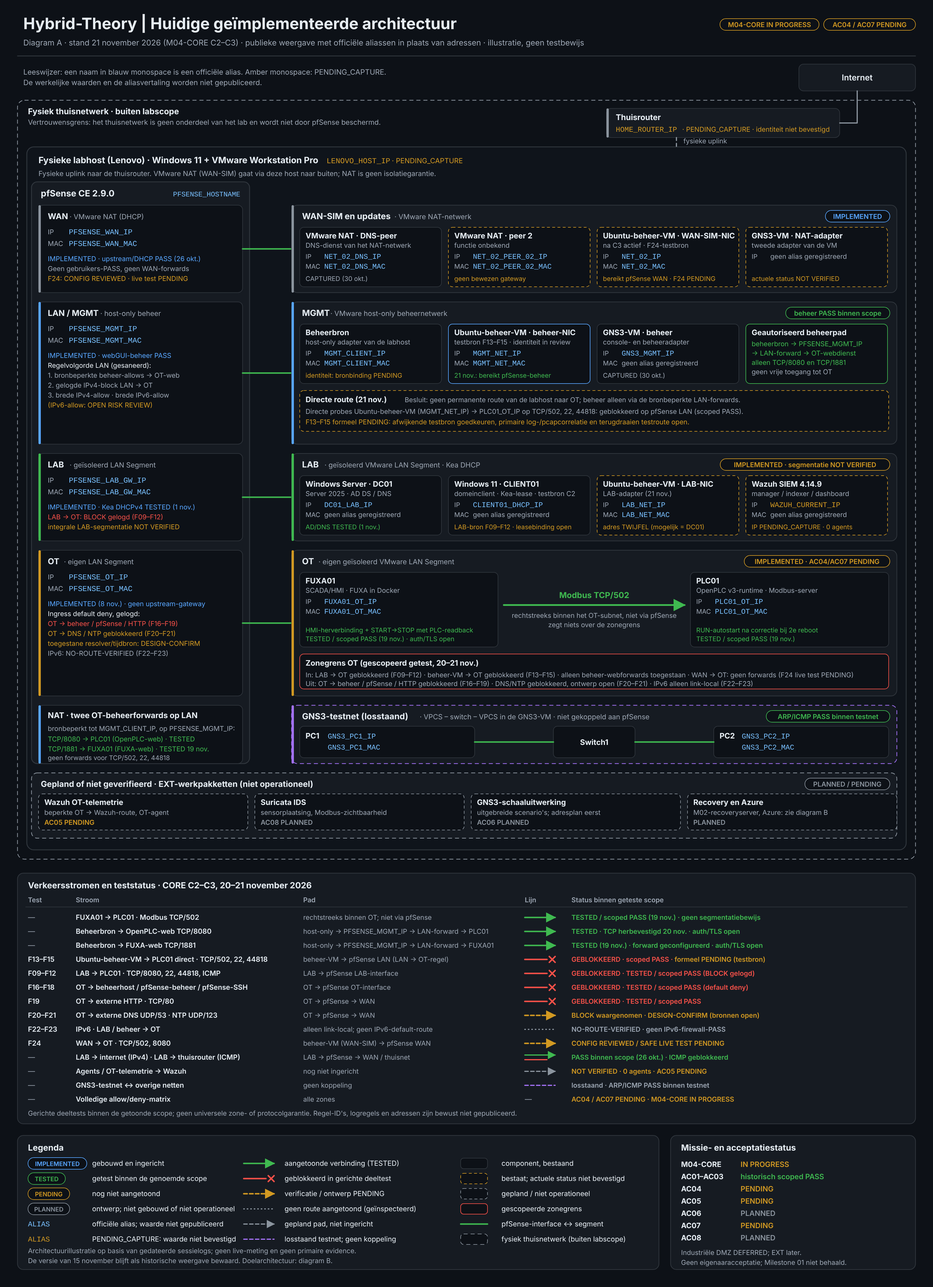
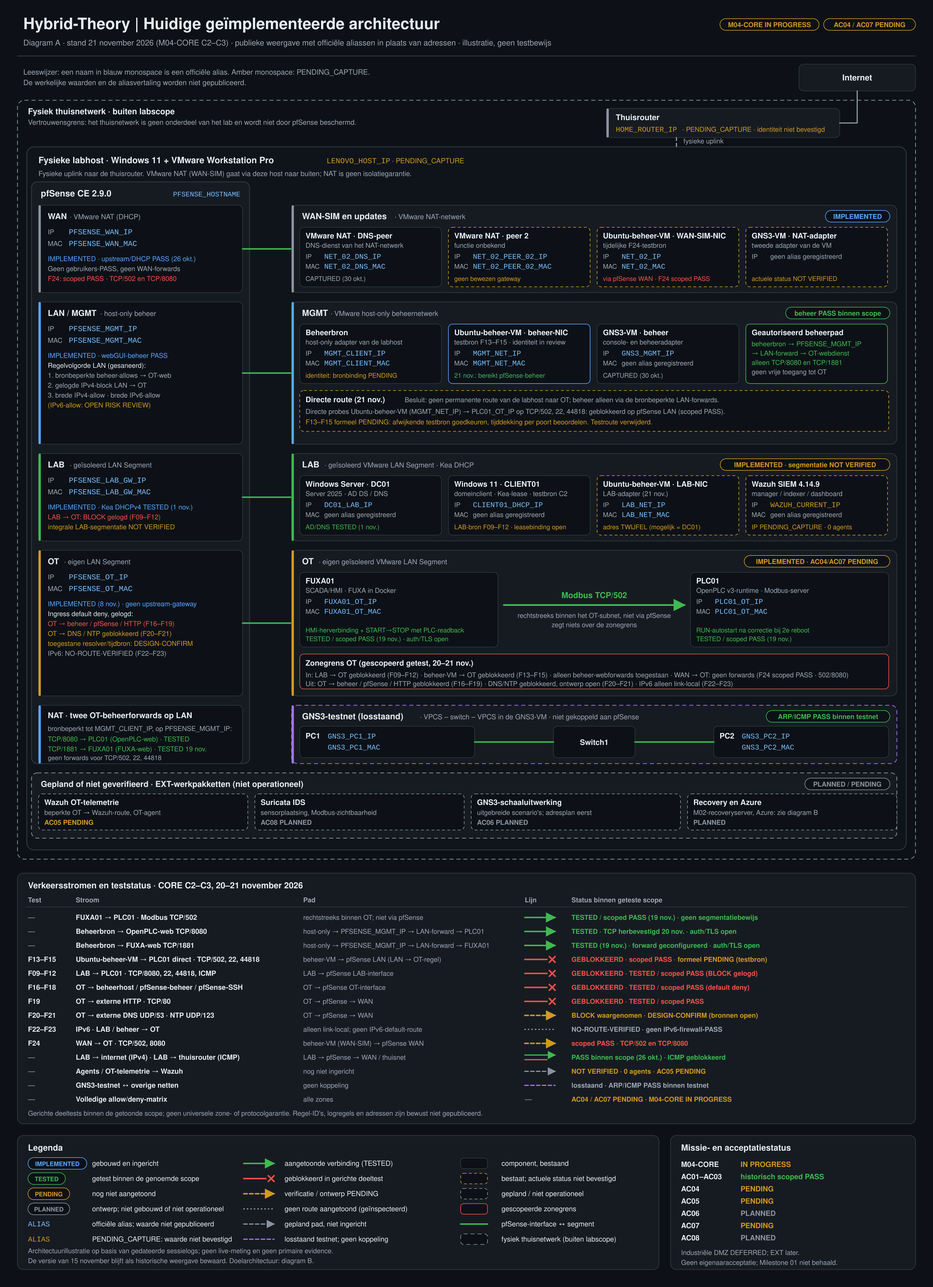
M04: verwerk de gesaneerde WAN-eindmeting en resterende CORE-gates

diff --git a/architectuur/README.md b/architectuur/README.md
@@ -40,7 +40,7 @@ Diagram A bestaat uit drie delen, zodat de tekst op schermbreedte leesbaar blijf
 - **FUXA01 praat rechtstreeks met PLC01** via Modbus TCP/502. Beide staan in hetzelfde OT-subnet, dus dit verkeer loopt niet via de pfSense-router en zegt niets over de grens naar andere zones.
 - **Fysieke grens:** de labhost staat in het thuisnetwerk, dat buiten de labscope valt. WAN-SIM gaat via VMware NAT en de fysieke uplink naar buiten; NAT is geen isolatiegarantie.
 - **Beheerpad:** de aangewezen beheerbron bereikt via het host-only segment `PFSENSE_MGMT_IP`. Twee bronbeperkte LAN-forwards geven alleen toegang tot de OpenPLC-webdienst (TCP/8080) en de FUXA-webdienst (TCP/1881); dat is geen vrije toegang tot OT. Een directe route van de beheerhost naar `PLC01_OT_IP` koos de fysieke uplink; een geautoriseerd direct pad (F13–F15) is een ontwerpbesluit en **PENDING / DESIGN-CONFIRM**.
-- **Zonegrens OT (gescopeerd, 20 november):** LAB→PLC01 (F09–F12) en OT→beheer, firewall en externe HTTP (F16–F19) zijn met gelogde blokkades **TESTED / scoped PASS**. DNS/NTP vanuit OT is geblokkeerd waargenomen, maar het ontwerp voor toegestane bronnen is **DESIGN-CONFIRM** (F20/F21). IPv6 is **NO-ROUTE-VERIFIED** binnen de geïnspecteerde topologie (F22/F23), geen IPv6-firewall-PASS. WAN→OT is **CONFIG REVIEWED / SAFE LIVE TEST PENDING** (F24).
+- **Zonegrens OT (gescopeerd, 20 november):** LAB→PLC01 (F09–F12) en OT→beheer, firewall en externe HTTP (F16–F19) zijn met gelogde blokkades **TESTED / scoped PASS**. DNS/NTP vanuit OT is geblokkeerd waargenomen, maar het ontwerp voor toegestane bronnen is **DESIGN-CONFIRM** (F20/F21). IPv6 is **NO-ROUTE-VERIFIED** binnen de geïnspecteerde topologie (F22/F23), geen IPv6-firewall-PASS. Op 21 november kreeg F24 voor TCP/502 en TCP/8080 **scoped PASS**.
 - **Gepland, niet operationeel:** Wazuh OT-telemetrie (AC05 **PENDING**), Suricata IDS (AC08 **PLANNED**) en GNS3-schaaluitwerking (AC06 **PLANNED**).
 - **Het GNS3-testnet staat los** van pfSense en het thuisnetwerk.
 - **M04-CORE is IN PROGRESS:** AC01–AC03 historisch **scoped PASS**; AC04 (integrale segmentatie), AC05 en AC07 (volledige allow/deny-matrix) **PENDING**; AC06 en AC08 **PLANNED**.
@@ -59,9 +59,9 @@ De verkeersstromen met hun teststatus staan in [Netwerkontwerp §1.1](NETWERKONT
 | FUXA01 (SCADA/HMI) | OT | `FUXA01_OT_IP` | `FUXA01_OT_MAC` | **IMPLEMENTED**; HMI en Modbus-verbinding TESTED (15 nov.); START→STOP met PLC-readback TESTED / scoped PASS (19 nov.) |
 | Windows Server 2025 (DC01) | LAB | `DC01_LAB_IP` | geen alias | AD DS/DNS TESTED (1 nov.); adres **TWIJFEL** |
 | Windows 11 (CLIENT01) | LAB | `CLIENT01_DHCP_IP` | geen alias | DHCP-lease; domeinclient TESTED (1 nov.); LAB-testbron F09–F12 (20 nov.), leasebinding open |
-| Ubuntu(-beheer-VM), LAB-interface | LAB | `LAB_NET_IP` (IPv6: `LAB_NET_IPV6_LL`) | `LAB_NET_MAC` (PENDING_CAPTURE) | adres **TWIJFEL** |
+| Ubuntu(-beheer-VM), LAB-interface | LAB | `LAB_NET_IP` (IPv6: `LAB_NET_IPV6_LL`) | `LAB_NET_MAC` (PENDING_CAPTURE) | bronalias bij de LAN-proef waargenomen, identiteits- en overlapreview open |
 | Ubuntu(-beheer-VM), beheerinterface | MGMT | `MGMT_NET_IP` (IPv6: `MGMT_NET_IPV6_LL`) | `MGMT_NET_MAC` (PENDING_CAPTURE) | Cockpit PASS (25 okt.); 21 nov. bereikt pfSense-beheer, testbron F13–F15; identiteitsreview **open** |
-| Ubuntu(-beheer-VM), WAN-SIM-interface | WAN-SIM | `NET_02_IP` (IPv6: `NET_02_IPV6_LL`) | `NET_02_MAC` (PENDING_CAPTURE) | tijdens de managementtests los; daarna tijdelijke F24-testbron die pfSense WAN bereikt; actuele waarde **PENDING_CAPTURE** |
+| Ubuntu(-beheer-VM), WAN-SIM-interface | WAN-SIM | `NET_02_IP` (IPv6: `NET_02_IPV6_LL`) | `NET_02_MAC` (PENDING_CAPTURE) | tijdens de managementtests los; daarna tijdelijke F24-testbron die pfSense WAN bereikt; bronalias tijdens de proef bevestigd, adaptereindstand open |
 | Wazuh SIEM | LAB | `WAZUH_CURRENT_IP` (PENDING_CAPTURE) | geen alias | dashboard TESTED (3–4 nov.); 0 agents |
 | GNS3-VM, beheer | MGMT | `GNS3_MGMT_IP` | geen alias | beheer bereikbaar |
 | GNS3 VPCS PC1 / PC2 | GNS3-testnet (losstaand) | `GNS3_PC1_IP` / `GNS3_PC2_IP` | `GNS3_PC1_MAC` / `GNS3_PC2_MAC` | ARP/ICMP PASS binnen het testnet |
@@ -147,6 +147,6 @@ De versies van 15 november, [diagram A](diagrammen/HT-ARCHITECTUUR-A-HUIDIG-PUBL
 
 ## Statusdelta 21 november 2026 — beheernetwerk en OT
 
-Volgens de eigenaarsessie blokkeerde pfSense drie directe management→PLC-pogingen op TCP/502, TCP/22 en TCP/44818. Dit is **TESTED / scoped PASS voor de werkelijk gebruikte virtuele beheerbron**, niet de formele acceptatie van F13–F15 of AC04/AC07. Testbronacceptatie, capture-/rollbackbewijs, WAN→OT en de overige CORE-controles zijn nog open.
+Volgens de eigenaarsessie blokkeerde pfSense drie directe management→PLC-pogingen op TCP/502, TCP/22 en TCP/44818. Dit is **TESTED / scoped PASS voor de werkelijk gebruikte virtuele beheerbron**, niet de formele acceptatie van F13–F15 of AC04/AC07. De LAN-route is verwijderd. Formele bronacceptatie en tijdreview per poort staan open. **F24 · scoped PASS voor TCP/502 en TCP/8080.** pfSense ontving zes SYN-pakketten op de gesimuleerde WAN-grens, drie per doelpoort. De IPv4-default-deny blokkeerde ze alle zes. De gelijktijdige, op bron, doel en beide poorten gefilterde OT-capture bevat nul pakketten.
 
 De afbeeldingen op deze pagina tonen de **topologie en teststand van 21 november**, inclusief de C3-resultaten uit het [gesaneerde sessielog van 21 november](../projectlogboeken/2026-11-21-m04-core-management-segmentatie.md). Geen directe permanente fysieke-host→OT-route of industriële DMZ in deze fase.

diff --git a/architectuur/NETWERKONTWERP.md b/architectuur/NETWERKONTWERP.md
@@ -1,6 +1,6 @@
 # Netwerkontwerp en beveiligingsgrenzen | Hybrid-Theory
 
-**Bijgewerkt:** 21 november 2026 (managementtests en F24-testvoorbereiding van 21 november; diagram A gedateerd 21 november, versie van 20 november als momentopname bewaard; 19-november-regressie, CORE C2-deeltests en statusnotities van diagram B: 20 november) · **Classificatie:** gesaneerde architectuurpublicatie · **Herkomst:** private architectuur en HT-C-010.
+**Bijgewerkt:** 21 november 2026 (managementtests en F24-eindmeting van 21 november; diagram A gedateerd 21 november, versie van 20 november als momentopname bewaard; 19-november-regressie, CORE C2-deeltests en statusnotities van diagram B: 20 november) · **Classificatie:** gesaneerde architectuurpublicatie · **Herkomst:** private architectuur en HT-C-010.
 
 Dit document heeft twee lagen die niet door elkaar mogen lopen: de **geobserveerde situatie** (§1) en de **doelarchitectuur HT-C-010** (§2–§3). Adressen staan als officiële alias; de [componenttabel met alle aliassen](README.md#11-componenten-zones-en-officiële-aliassen) staat in Architecture.
 
@@ -38,7 +38,7 @@ Deze gegevens komen uit gedateerde sessielogs en zijn **geen nieuwe live-meting*
 | 6 | OT → andere zones en internet | Via de pfSense-OT-interface | Gerichte OT→LAB ICMP en OT→extern ICMP/TCP 443 (19 nov.) en OT→beheerhost, pfSense-beheer, pfSense-SSH en externe HTTP (F16–F19, 20 nov.) zijn met pfSense-BLOCK-events gecorreleerd (**TESTED / scoped PASS**); alternatieve paden/protocollen en integrale AC04 **PENDING** |
 | 6a | OT → externe DNS (UDP/53) en NTP (UDP/123) (F20/F21) | Via de pfSense-OT-interface | Geblokkeerd waargenomen; goedgekeurde resolver en tijdbron **DESIGN-CONFIRM** |
 | 6b | IPv6 LAB/beheer → OT (F22/F23) | Alleen link-local op de onderzochte LAB-/OT-hosts, geen IPv6-default-route | **NO-ROUTE-VERIFIED** binnen de geïnspecteerde topologie; geen IPv6-firewall-PASS; brede LAN IPv6-allow onder review |
-| 6c | WAN → OT (F24) | WAN-SIM → pfSense WAN; als tijdelijke testbron is na de managementtests de WAN-SIM-adapter van de beheer-VM (`NET_02_IP`) actief gemaakt, die pfSense WAN bereikt | Geen gebruikers-PASS en geen WAN-forwards in de bekeken configuratie: **CONFIG REVIEWED / SAFE LIVE TEST PENDING**; geen PASS zonder gelogde blokkade en bewijs |
+| 6c | WAN → OT (F24) | Tijdelijke WAN-bron → pfSense WAN → PLC, TCP/502 en TCP/8080 | **Scoped PASS**. Zes SYN op WAN, zes gelogde blokkades en nul treffers op OT. |
 | 7 | Agents en OT-telemetrie → Wazuh | Nog niet ingericht | **NOT VERIFIED**; 0 agents; AC05 **PENDING** |
 | 8 | GNS3-testnet ↔ overige netten | Geen koppeling | Losstaand; ARP/ICMP **PASS** binnen het testnet |
 
@@ -94,10 +94,10 @@ De C2-sessie bevestigde gerichte LAB→PLC- en OT→beheer/firewall/extern-blokk
 
 ## Actualisatie 21 november 2026 — beheerzone/OT-ontwerp
 
-In de bestaande topologie is vanuit een afzonderlijke virtuele managementbron driemaal een directe verbinding naar de PLC geprobeerd: Modbus TCP/502, SSH TCP/22 en EtherNet/IP TCP/44818. Volgens de eigenaarsessie blokkeerde pfSense deze drie verbindingen op de beheer-naar-OT-grens. **TESTED / scoped PASS voor de geteste managementbron.** De canonieke F13–F15-matrix noemt een andere bron; expliciete bronacceptatie, packetcapture-/log-review en rollbackbewijs zijn nog **PENDING**. Integrale AC04/AC07: **PENDING**.
+In de bestaande topologie is vanuit een afzonderlijke virtuele managementbron driemaal een directe verbinding naar de PLC geprobeerd: Modbus TCP/502, SSH TCP/22 en EtherNet/IP TCP/44818. Volgens de eigenaarsessie blokkeerde pfSense deze drie verbindingen op de beheer-naar-OT-grens. **TESTED / scoped PASS voor de geteste managementbron.** De canonieke F13–F15-matrix noemt een andere bron; expliciete bronacceptatie, packetcapture-/log-review zijn nog **PENDING**. De tijdelijke LAN-route is verwijderd. Integrale AC04/AC07: **PENDING**.
 
 De fysieke VMware-host krijgt geen permanente directe OT-route. Het beperkte webbeheer via de bestaande firewallportforwards blijft tijdelijk gehandhaafd. Uitbreiding van het virtuele beheerwerkstation en de industriële DMZ is uitgesteld tot na M04-CORE. De in het eerdere document opgenomen stand van 20 november blijft historische context.
 
-**F24-testvoorbereiding (21 november, na de managementtests):** de WAN-SIM-adapter van de beheer-VM stond tijdens de managementtests los en is daarna als **tijdelijke testbron** actief gemaakt; hij bereikt pfSense WAN rechtstreeks. Dat is geen ontwerpkeuze en geen WAN→OT- of beheerverbinding. F24 blijft **CONFIG REVIEWED / SAFE LIVE TEST PENDING**.
+**F24 · scoped PASS voor TCP/502 en TCP/8080.** pfSense ontving zes SYN-pakketten op de gesimuleerde WAN-grens, drie per doelpoort. De IPv4-default-deny blokkeerde ze alle zes. De gelijktijdige, op bron, doel en beide poorten gefilterde OT-capture bevat nul pakketten. De tijdelijke WAN-hostroute is verwijderd en Host-only-beheer is hersteld. De eindstand van de adapters moet nog worden vastgelegd. [Daglog](../projectlogboeken/2026-11-21-m04-core-management-segmentatie.md)
 
 [Gesaneerd testlog 21 november](../projectlogboeken/2026-11-21-m04-core-management-segmentatie.md) · [M04 Issue #45](https://github.com/SamAsgar/Hybrid-Theory-Public/issues/45).

diff --git a/Portfolio/M04-Network-Citadel/M04-GAPS.md b/Portfolio/M04-Network-Citadel/M04-GAPS.md
@@ -4,12 +4,12 @@
 **Status:** technische beeldanalyse; geen formele audit-PASS.
 
 ## M04 Network Citadel
-1. **Topologiegrens:** oude VMnet8-/LAB-tests en latere LAN-segment-/OT-configuratie bewust gescheiden. Voor AC01/AC02/AC03 kunnen eerdere succesvolle tests bestaan, maar deze screenshots leveren niet automatisch regressie-PASS na de migratie.
+1. **Topologiegrens:** oude NAT-/LAB-tests en latere LAN-segment-/OT-configuratie bewust gescheiden. Voor AC01/AC02/AC03 kunnen eerdere succesvolle tests bestaan, maar deze screenshots leveren niet automatisch regressie-PASS na de migratie.
 2. **AC04 OT-interface:** er is een nulmeting zonder OT-firewallregels. Latere regellijsten en adapterinstellingen zijn zichtbaar, maar een volledige gevalideerde netwerkflow naar PLC/FUXA over het bedoelde pad is niet uit deze selectie alleen vast te stellen.
 3. **AC07 allow/deny:** aparte matrix nodig per bron, bestemming, poort, resultaat, timestamp en pfSense-regel-/logcorrelatie. Screenshot van een rule is onvoldoende.
-4. **NAT / host-beheerpad:** sommige schermen tonen onvolledige pfSense `Edit Redirect Entry`-velden of wijzigingen die nog kunnen wachten op Apply. Ook routekeuze via Wi-Fi in plaats van VMnet1 komt voor.
+4. **NAT / host-beheerpad:** sommige schermen tonen onvolledige pfSense `Edit Redirect Entry`-velden of wijzigingen die nog kunnen wachten op Apply. Ook routekeuze via Wi-Fi in plaats van het Host-only-netwerk komt voor.
 5. **Mislukte verbinding:** `Screenshot 2026-11-11 181110.png` toont expliciet `TcpTestSucceeded=False` voor `PLC01_OT_IP:1881`; dit bewaren als FAIL, niet wegpoetsen.
-6. **Beperkt geslaagde verbinding:** `Screenshot 2026-11-11 185224.png` toont succes naar `PFSENSE_MGMT_IP` via VMnet1 op poorten `1881` en `8080`, maar is géén zelfstandig bewijs van PLC01 of end-to-end portforward naar het OT-segment.
+6. **Beperkt geslaagde verbinding:** `Screenshot 2026-11-11 185224.png` toont succes naar `PFSENSE_MGMT_IP` via het Host-only-netwerk op poorten `1881` en `8080`, maar is géén zelfstandig bewijs van PLC01 of end-to-end portforward naar het OT-segment.
 7. **AC05 Wazuh:** installatie-/webinterfacebeelden tonen voorbereidende integratie, niet bewezen OT-agent-telemetrie of detectieregels.
 8. **AC06 / AC08:** GNS3-schets is geen bewijs voor 75 VPCS en 3 subnetten, en er is in deze selectie geen bewijs voor een geslaagde Suricata IDS-acceptatietest.
 9. **Snapshotintegriteit:** screenshots van VMware-menus zijn geen definitieve snapshotinventaris. Verifieer namen, datums, herstelbaarheid en vastgelegde rollbackstappen.
@@ -45,4 +45,12 @@ Bij een pad- en bestandscontrole van de publieke evidence-set zijn **264 PNG-bes
 
 De eigenaarsessie bevestigt binnen de getoonde scope drie door de firewall geblokkeerde directe verbindingen van een virtuele beheerbron naar de PLC: TCP/502, TCP/22 en TCP/44818. **TESTED / scoped PASS voor die beheerbron**; formele testbronacceptatie en volledig client-/firewall-/capturebewijs blijven open. Dit is geen algemene zone-isolatie-PASS.
 
-Resterend: F13–F15-bronbesluit, capture-/rollbackbewijs, IPv6-regel en alternatieve paden, veilige WAN→OT-test F24, DNS/NTP-bronbeleid, herstel- en AC01–03-evidencereview. **AC04/AC07 integraal PENDING; M04-CORE IN PROGRESS.** Wazuh, GNS3 en Suricata blijven EXT. [Gesaneerd log 21 november](../../projectlogboeken/2026-11-21-m04-core-management-segmentatie.md).
+**F24 · scoped PASS voor TCP/502 en TCP/8080.** pfSense ontving zes SYN-pakketten op de gesimuleerde WAN-grens, drie per doelpoort. De IPv4-default-deny blokkeerde ze alle zes. De gelijktijdige, op bron, doel en beide poorten gefilterde OT-capture bevat nul pakketten. Beide testroutes zijn verwijderd. [Daglog 21 november](../../projectlogboeken/2026-11-21-m04-core-management-segmentatie.md)
+
+**M04-CORE IN PROGRESS · Milestone 01 open · AC04/AC07 integraal PENDING.**
+
+1. Leg de VMware-eindstand vast (NAT uit, LAN Segment en Host-only aan). De beelden vóór F24 tonen de uitgangsstand. De afgeronde F24-proef hoeft niet opnieuw.
+2. Accepteer de beheer-VM als formele bron voor F13–F15 of plan een gecontroleerde hertest vanaf de voorgeschreven fysieke host. Beoordeel de tijddekking per poort en bevestig het SSH-beheerbeleid voor F14.
+3. Bepaal de OT-resolver en tijdbron en toets F20/F21 aan dat beleid. Beoordeel de brede LAN IPv6-allow en alternatieve paden voor F22/F23. Verifieer de LAB-bron en de doelrol van de beheerforward waar de conclusie daarvan afhangt.
+4. Verifieer de pfSense-configback-up, het PLC-checkpoint van ná de autostartfix en herstel in isolatie. OpenPLC-autostart en de START→STOP-keten hebben sinds 19 november een scoped PASS. Rond de AC01–AC03-bewijsreview af en herhaal alleen ontbrekende onderdelen.
+5. Registreer per resterende flow de uitkomst of gemotiveerde uitzondering en laat de eigenaar AC04/AC07 aftekenen. Daarna volgen Wazuh-events (AC05), de vast te stellen GNS3-scope en test (AC06) en Suricata → Wazuh (AC08).

diff --git a/projectlogboeken/2026-11-21-m04-core-management-segmentatie.md b/projectlogboeken/2026-11-21-m04-core-management-segmentatie.md
@@ -7,7 +7,7 @@ Een afzonderlijke Ubuntu-beheer-VM in de managementzone bereikte de pfSense-behe
 
 **Resultaat:** `TESTED / scoped PASS` voor **alle drie de getoonde poorten vanaf deze specifieke beheer-VM**, op basis van de aangeleverde sessiewaarneming. Voor TCP/22 en TCP/44818 zijn tevens bronroute en client-timeout gerapporteerd. Volledige primaire tijd-, logregel- en packetcapturecorrelatie en onafhankelijke bewijsreview staan nog open.
 
-De oorspronkelijke F13–F15-testmatrix vermeldt een andere beheerbron. **F13–F15 blijven formeel PENDING** tot goedkeuring van de afwijkende testbron en afronding van primaire evidence-review. De eindteller van de packetcapture op de OT-interface en het bewijs van terugdraaien van het tijdelijke testpad ontbreken nog in het aangeleverde statusrapport.
+De oorspronkelijke F13–F15-testmatrix vermeldt een andere beheerbron. **F13–F15 blijven formeel PENDING** tot goedkeuring van de afwijkende testbron en afronding van primaire evidence-review. Voor TCP/22 en TCP/44818 eindigde de gefilterde OT-capture op nul. TCP/502 is op LAN met het bloklog onderbouwd. De tijdelijke LAN-hostroute is aantoonbaar verwijderd.
 
 ## Architectuurgrenzen
 - Fysieke virtualisatiehost krijgt geen permanente directe route naar OT.
@@ -16,8 +16,19 @@ De oorspronkelijke F13–F15-testmatrix vermeldt een andere beheerbron. **F13–
 - PLC en HMI blijven binnen één geïsoleerd OT-segment en communiceren daar via Modbus TCP.
 - De industriële DMZ en verdere beheerinrichting zijn uitgesteld tot na CORE.
 
+## WAN-eindmeting
+
+**F24 · scoped PASS voor TCP/502 en TCP/8080.** pfSense ontving zes SYN-pakketten op de gesimuleerde WAN-grens, drie per doelpoort. De IPv4-default-deny blokkeerde ze alle zes. De gelijktijdige, op bron, doel en beide poorten gefilterde OT-capture bevat nul pakketten. De beheer-VM gebruikte tijdelijk de WAN-simulator. De WAN-hostroute is verwijderd en het Host-only-beheer is hersteld.
+
 ## Nog open
-IPv6-regelreview en alternatieve paden; veilige gesimuleerde WAN→OT-probe (F24); DNS-/NTP-bronbeleid; herstel- en bewijsreview; formele acceptatie AC04/AC07. AC01–AC03 behouden hun historische **scoped PASS**, met onafhankelijke review PENDING. AC05 is PENDING, AC06/AC08 PLANNED (EXT).
+
+**M04-CORE IN PROGRESS · Milestone 01 open · AC04/AC07 integraal PENDING.**
+
+1. Leg de VMware-eindstand vast (NAT uit, LAN Segment en Host-only aan). De beelden vóór F24 tonen de uitgangsstand. De afgeronde F24-proef hoeft niet opnieuw.
+2. Accepteer de beheer-VM als formele bron voor F13–F15 of plan een gecontroleerde hertest vanaf de voorgeschreven fysieke host. Beoordeel de tijddekking per poort en bevestig het SSH-beheerbeleid voor F14.
+3. Bepaal de OT-resolver en tijdbron en toets F20/F21 aan dat beleid. Beoordeel de brede LAN IPv6-allow en alternatieve paden voor F22/F23. Verifieer de LAB-bron en de doelrol van de beheerforward waar de conclusie daarvan afhangt.
+4. Verifieer de pfSense-configback-up, het PLC-checkpoint van ná de autostartfix en herstel in isolatie. OpenPLC-autostart en de START→STOP-keten hebben sinds 19 november een scoped PASS. Rond de AC01–AC03-bewijsreview af en herhaal alleen ontbrekende onderdelen.
+5. Registreer per resterende flow de uitkomst of gemotiveerde uitzondering en laat de eigenaar AC04/AC07 aftekenen. Daarna volgen Wazuh-events (AC05), de vast te stellen GNS3-scope en test (AC06) en Suricata → Wazuh (AC08).
 
 [Vorige C2-delta](2026-11-20-m04-core-c2-netwerkvalidatie.md) · [M04 issue](https://github.com/SamAsgar/Hybrid-Theory-Public/issues/45).
 

diff --git a/Portfolio/M04-Network-Citadel/README.md b/Portfolio/M04-Network-Citadel/README.md
@@ -28,12 +28,12 @@ De netwerkarchitectuur en IT/OT-segmentatie van Hybrid-Theory documenteren en ve
 
 ## 3. Technische keten
 
-1. **Baseline:** oorspronkelijke LAB/VMnet8-tests, interface-overzichten en voorlopige verbindingen.
+1. **Baseline:** oorspronkelijke LAB- en NAT-tests, interface-overzichten en voorlopige verbindingen.
 2. **Inrichting:** VMware-adapters, PLC01/OpenPLC, FUXA/Modbus, de OT-interface op pfSense en firewallregels.
 3. **Migratie:** snapshots, aanpassing van het OT-netwerk, routes en NAT/port-forwarding.
 4. **Verificatie:** werkende en niet-werkende netwerkpaden, pfSense-logs, PowerShell-connectiviteitstests en FUXA-tags.
 
-**Belangrijk:** een screenshot van een configuratie bewijst niet dat verkeer werkelijk werd toegestaan of geblokkeerd. Een historische PASS op VMnet8 bewijst geen werkende situatie na de OT-migratie.
+**Belangrijk:** een screenshot van een configuratie bewijst niet dat verkeer werkelijk werd toegestaan of geblokkeerd. Een historische PASS op het NAT-netwerk bewijst geen werkende situatie na de OT-migratie.
 
 ## 4. Resultaten en bewijsgrenzen
 
@@ -49,7 +49,7 @@ De netwerkarchitectuur en IT/OT-segmentatie van Hybrid-Theory documenteren en ve
 ## 5. Concrete troubleshootingvoorbeelden
 
 - `Screenshot 2026-11-11 181110.png`: `TcpTestSucceeded=False` voor `PLC01_OT_IP:1881`. Dit blijft een mislukte bereikbaarheidstest, geen PASS.
-- `Screenshot 2026-11-11 185224.png`: geslaagde verbinding naar `PFSENSE_MGMT_IP` via VMnet1 op poorten `1881` en `8080`. Deze test alleen bewijst geen PLC01-route en geen OT-port-forward.
+- `Screenshot 2026-11-11 185224.png`: geslaagde verbinding naar `PFSENSE_MGMT_IP` via het Host-only-netwerk op poorten `1881` en `8080`. Deze test alleen bewijst geen PLC01-route en geen OT-port-forward.
 - `M04-EV-206` t/m `M04-EV-210`: de FUXA-connector toont configuratie, statuscode en motortags, maar nog geen reproduceerbare `0→1→0`-overgang van PLC-waarden.
 
 ## 6. Integriteit en herkomst
@@ -72,6 +72,8 @@ De [fase-21-reeks](M04-Bewijsvoering/21_CORE_C2_firewall_and_isolation/README.md
 
 ## M04-CORE C3 | 21 november 2026 — gesaneerde testdelta
 
-Drie pogingen vanaf een afzonderlijke virtuele beheerbron naar de PLC (TCP/502, TCP/22, TCP/44818) zijn volgens de sessierapportage door pfSense geblokkeerd: **TESTED / scoped PASS binnen die bron en poorten**. De oorspronkelijke F13–F15-bron verschilt; formele bronacceptatie, aanvullende capture- en rollbackreview en integrale AC04/AC07-acceptatie blijven **PENDING**. De historische galeries en afbeeldingen zijn niet herzien of gepresenteerd als nieuw testbewijs.
+**F13–F15 · scoped PASS vanaf de geteste beheer-VM.** De LAN-regel blokkeerde TCP/502, TCP/22 en TCP/44818. De OT-eindtellers voor TCP/22 en TCP/44818 zijn nul. Voor TCP/502 is het LAN-bloklog beschikbaar. Beide tijdelijke hostroutes zijn verwijderd en Cockpit is weer bereikbaar via Host-only.
+
+**F24 · scoped PASS voor TCP/502 en TCP/8080.** pfSense ontving zes SYN-pakketten op de gesimuleerde WAN-grens, drie per doelpoort. De IPv4-default-deny blokkeerde ze alle zes. De gelijktijdige, op bron, doel en beide poorten gefilterde OT-capture bevat nul pakketten. **M04-CORE IN PROGRESS · Milestone 01 open · AC04/AC07 integraal PENDING.** [Gesaneerd daglog](../../projectlogboeken/2026-11-21-m04-core-management-segmentatie.md)
 
 [Managementtestlog 21 november](../../projectlogboeken/2026-11-21-m04-core-management-segmentatie.md) · [Open gaps](M04-GAPS.md) · [M04 Issue](https://github.com/SamAsgar/Hybrid-Theory-Public/issues/45).

diff --git a/README.md b/README.md
@@ -15,7 +15,7 @@ Op één fysieke host heb ik met VMware een bedrijfsnetwerk, een beheeromgeving 
 Een bedieningsscherm (FUXA) stuurt een industriële controller (OpenPLC) aan die een motor simuleert. Nadat ik beide systemen naar het OT-netwerk had verplaatst, testte ik twee dingen die voor een bedrijf tegelijk moeten kloppen:
 
 - **Kan de operator de installatie blijven bedienen?** Na een herstart gaf ik via het scherm een start- en stopcommando. In de controller las ik de bijbehorende statusverandering terug. [Bedieningstest van 19 november](projectlogboeken/2026-11-19-m04-openplc-autostart-en-ot-regressie.md)
-- **Houdt de firewall ongewenste toegang tegen?** Vanuit het labnetwerk testte ik de netwerkgrens. Op 21 november werden ook drie gerichte pogingen vanaf een afzonderlijke virtuele beheerbron naar de controller (Modbus, SSH en EtherNet/IP) volgens de sessielogs door pfSense geblokkeerd. Dit zijn **gescopeerde deelresultaten**, geen formele acceptatie van de volledige segmentatie. [Netwerktests van 20 november](projectlogboeken/2026-11-20-m04-core-c2-netwerkvalidatie.md) · [Managementtests van 21 november](projectlogboeken/2026-11-21-m04-core-management-segmentatie.md)
+- **Houdt de firewall ongewenste toegang tegen?** pfSense blokkeerde vanaf de beheer-VM drie directe pogingen naar de controller. Vanaf een gesimuleerde WAN-bron bereikten zes SYN-pakketten de firewall op TCP/502 en TCP/8080. Alle zes werden geblokkeerd. De gelijktijdige gefilterde OT-capture bleef leeg. [LAN- en WAN-tests van 21 november](projectlogboeken/2026-11-21-m04-core-management-segmentatie.md)
 
 ## Identiteit en bedrijfscontinuïteit
 
@@ -32,7 +32,7 @@ De vijf missies bestrijken de onderliggende systemen, herstel na uitval, identit
 | [M01 · Hypervisor Fortress](https://github.com/SamAsgar/Hybrid-Theory-Public/issues/42) | Een deel van de controles op host en hypervisor is uitgevoerd. Voor klembord en slepen tussen host en gast geldt een uitzondering op geselecteerde Windows-VM’s. |
 | [M02 · Phoenix Recovery](https://github.com/SamAsgar/Hybrid-Theory-Public/issues/43) | Het herstelontwerp ligt er. Een restore op een afzonderlijke host moet nog worden aangetoond. |
 | [M03 · Identity Dominion](https://github.com/SamAsgar/Hybrid-Theory-Public/issues/44) | Centraal gebruikersbeheer met Active Directory, naamomzetting (DNS), aanmelden op het domein en één groepsbeleid zijn getest. De uitbreiding met Entra ID is gepland. |
-| [M04 · Network Citadel](https://github.com/SamAsgar/Hybrid-Theory-Public/issues/45) | PLC/HMI-functionaliteit en gerichte firewallblokkeringen zijn getest; drie management→OT-denies zijn op 21 november als scoped PASS gerapporteerd. Bronacceptatie, bewijsreview en integrale AC04/AC07 blijven open. |
+| [M04 · Network Citadel](https://github.com/SamAsgar/Hybrid-Theory-Public/issues/45) | PLC/HMI-functionaliteit en gerichte firewallblokkeringen zijn getest; F13–F15 hebben scoped PASS vanaf de beheer-VM en F24 voor WAN→OT op TCP/502 en TCP/8080. Bronacceptatie, bewijsreview en integrale AC04/AC07 blijven open. |
 | [M05 · Compliance Sentinel](https://github.com/SamAsgar/Hybrid-Theory-Public/issues/46) | De onderzoeksopzet is goedgekeurd. De eerste casus is gepland: beoordelen hoe de scheiding tussen de netwerken aansluit op ISO/IEC 27001 A.8.22. |
 
 ## Bewijs en logboeken

diff --git a/architectuur/PFSENSE_PLAN.md b/architectuur/PFSENSE_PLAN.md
@@ -59,3 +59,7 @@ Voordat pfSense-regels opnieuw worden aangepast: controleer de configuratie-expo
 De twee bronbeperkte beheerforwards staan op LAN. Een gerichte IPv4-block van LAN naar OT volgt op de beheeruitzonderingen en gaat vóór de brede LAN IPv4-allow. De brede LAN IPv6-allow blijft een open beoordelingspunt. Zowel de directe Windows-route naar PLC01 als de getoonde beheerforward verklaren waarom een time-out naar het firewalladres de drie directe PLC-proeven openlaat.
 
 Voor LAB en OT zijn gelogde blokkades op specifieke paden bevestigd. IPv6 is alleen afgebakend op basis van de bekeken routes en segmenten. WAN-configuratie is beoordeeld. Veilige live WAN-test, herstelbewijs en volledige AC04/AC07-acceptatie staan open. [C2-projectlog](../projectlogboeken/2026-11-20-m04-core-c2-netwerkvalidatie.md) · [Diagram A, stand 20 november](README.md#1-diagram-a--huidige-geïmplementeerde-architectuur-20-november-2026).
+
+## Stand na de WAN-eindmeting · 21 november
+
+**F24 · scoped PASS voor TCP/502 en TCP/8080.** pfSense ontving zes SYN-pakketten op de gesimuleerde WAN-grens, drie per doelpoort. De IPv4-default-deny blokkeerde ze alle zes. De gelijktijdige, op bron, doel en beide poorten gefilterde OT-capture bevat nul pakketten. De twee bestaande bronbeperkte webforwards vormen het beheerpad. F13–F15 zijn alleen voor de virtuele LAN-bron aangetoond. De brede IPv6-allow en alternatieve paden vragen nog review. [Sessieresultaten](../projectlogboeken/2026-11-21-m04-core-management-segmentatie.md)

diff --git a/projectlogboeken/README.md b/projectlogboeken/README.md
@@ -20,7 +20,7 @@ De oorspronkelijke logs vormen **historische momentopnamen of later afgeleide ra
 | 11 november | [M04: segmentatie en beheer gevalideerd](2026-11-11-m04-segmentatie-en-beheer-validatie.md) | Nieuwe tussenstand: HMI op OT, beheerverbindingen en gerichte LAB→OT-blokkade TESTED PASS; troubleshooting en vervolgcriteria; AC04/AC07 volledig PENDING |
 | 19 november | [M04: OpenPLC-autostart en OT-regressie](2026-11-19-m04-openplc-autostart-en-ot-regressie.md) | Gesaneerde labupdate over PLC-herstart en functionele regressie. AC04/AC07 integraal PENDING. |
 | 20 november | [M04: CORE C2-netwerkvalidatie](2026-11-20-m04-core-c2-netwerkvalidatie.md) | Gerichte LAB- en OT-blokkades, routecontrole en open acceptatiegates |
-| 21 november | [M04: beheerzone en OT-firewallblokkades](2026-11-21-m04-core-management-segmentatie.md) | Drie gerichte beheer→OT-denies, scoped PASS per bron; formele AC04/AC07-acceptatie PENDING |
+| 21 november | [M04 · LAN- en WAN-blokkades naar OT](2026-11-21-m04-core-management-segmentatie.md) | F13–F15 scoped PASS voor de beheer-VM. F24 scoped PASS voor TCP/502 en TCP/8080. Beide testroutes verwijderd. |
 
 **Actueel overzicht:** [Fase 0–7 en Lab 01–05](ROADMAP.md). De volledige oorspronkelijke engineeringdiscussie is niet overgenomen; dit overzicht bevat uitsluitend bestaande bestanden.
 

diff --git a/projectlogboeken/ROADMAP.md b/projectlogboeken/ROADMAP.md
@@ -70,4 +70,4 @@ Dit zijn **inhoudelijke raakvlakken**, geen afrondingscriteria en geen bewijs da
 
 ## M04-CORE update 21 november 2026
 
-De [beheerzonetest](2026-11-21-m04-core-management-segmentatie.md) meldt drie gerichte, door pfSense gelogde blokkades vanaf een virtuele managementbron naar OT (TCP/502, TCP/22 en TCP/44818). **TESTED / scoped PASS** voor de feitelijke bron, maar F13–F15 formeel nog **PENDING** wegens testbronverschil en bewijsreview. **AC04/AC07 PENDING, CORE IN PROGRESS**. Resterend: capture-/rollbackbewijs, WAN→OT, IPv6, DNS/NTP, herstel en formele acceptatie. Geen permanente directe host→OT-route. EXT (Wazuh, GNS3, Suricata) en industriële DMZ volgen later.
+**M04-CORE IN PROGRESS · Milestone 01 open · AC04/AC07 integraal PENDING.** F24 is aangetoond voor TCP/502 en TCP/8080. F13–F15 wachten op formele bronacceptatie en review per poort. Beide tijdelijke routes zijn verwijderd. De adaptereindstand, DNS/NTP, IPv6 en alternatieve paden, AC01–AC03-review en herstelvalidatie staan open. EXT en de industriële DMZ volgen later. [Uitvoering en resterende stappen](2026-11-21-m04-core-management-segmentatie.md)
